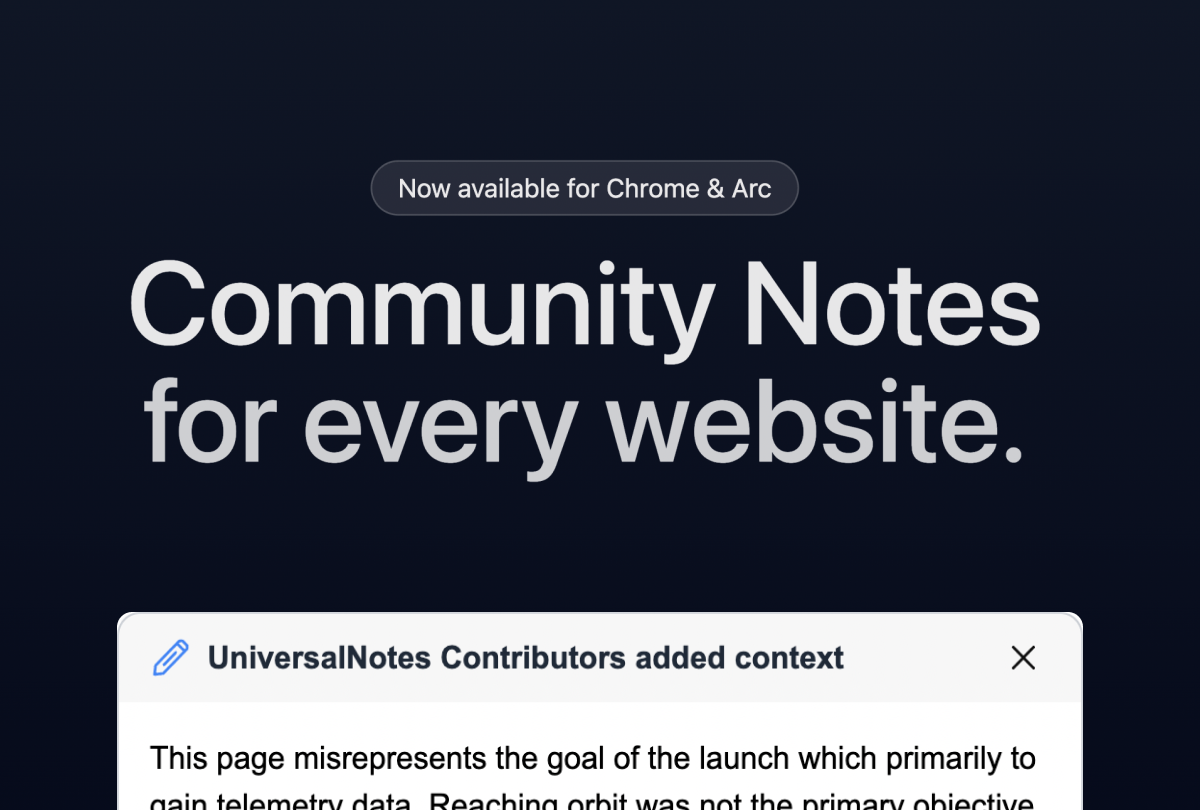
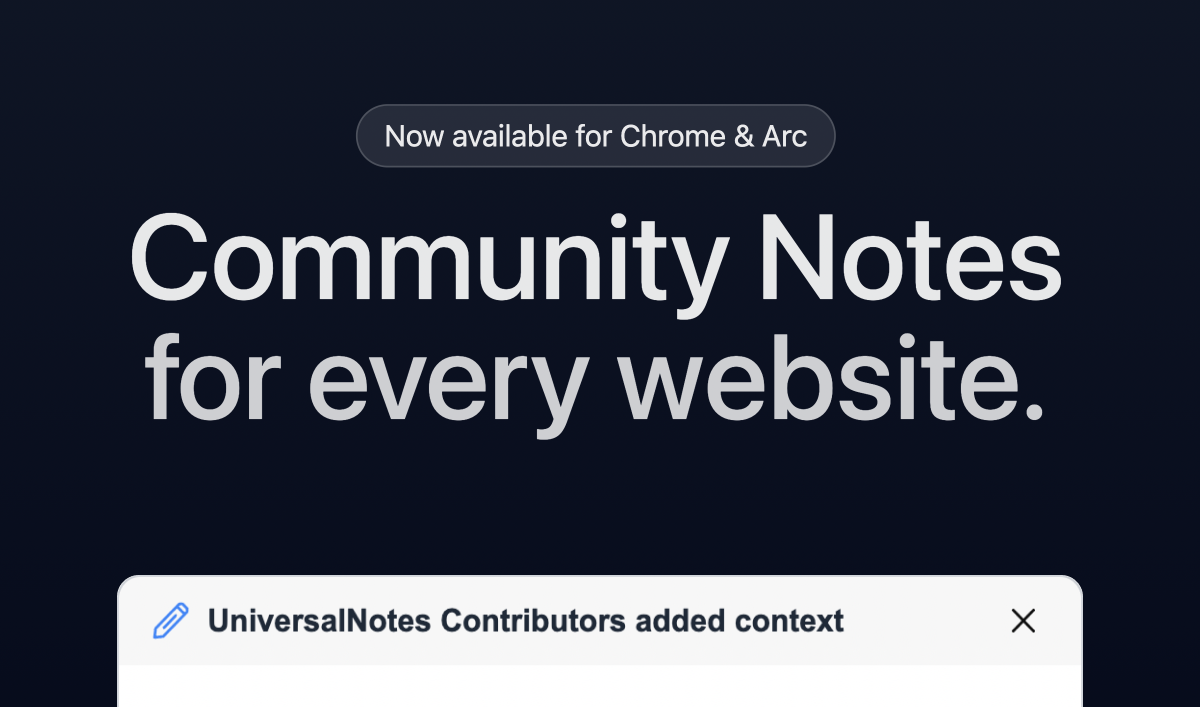
updated og image resolution

diff --git a/app/page.tsx b/app/page.tsx
@@ -15,8 +15,8 @@ const metadata: Metadata = {
     images: [
       {
         url: "/UniversalNotes_OpenGraph.png",
-        width: 800,
-        height: 540,
+        width: 1200,
+        height: 707,
       },
     ],
   },
@@ -40,7 +40,7 @@ export default function Home() {
             href="https://chromewebstore.google.com/detail/universalnotes/ebdoepcapegdgjjbhplphgkacdodnffl"
             className="bg-white/[.10] hover:bg-white/[.22] border border-white/[.18] py-1 px-4 rounded-full mb-4 transition-all duration-300 cursor-pointer"
           >
-            <p className="text-white/90 text-sm md:text-base">
+            <p className="text-white/90 text-sm md:text-lg">
               Now available for Chrome & Arc
             </p>
           </a>
